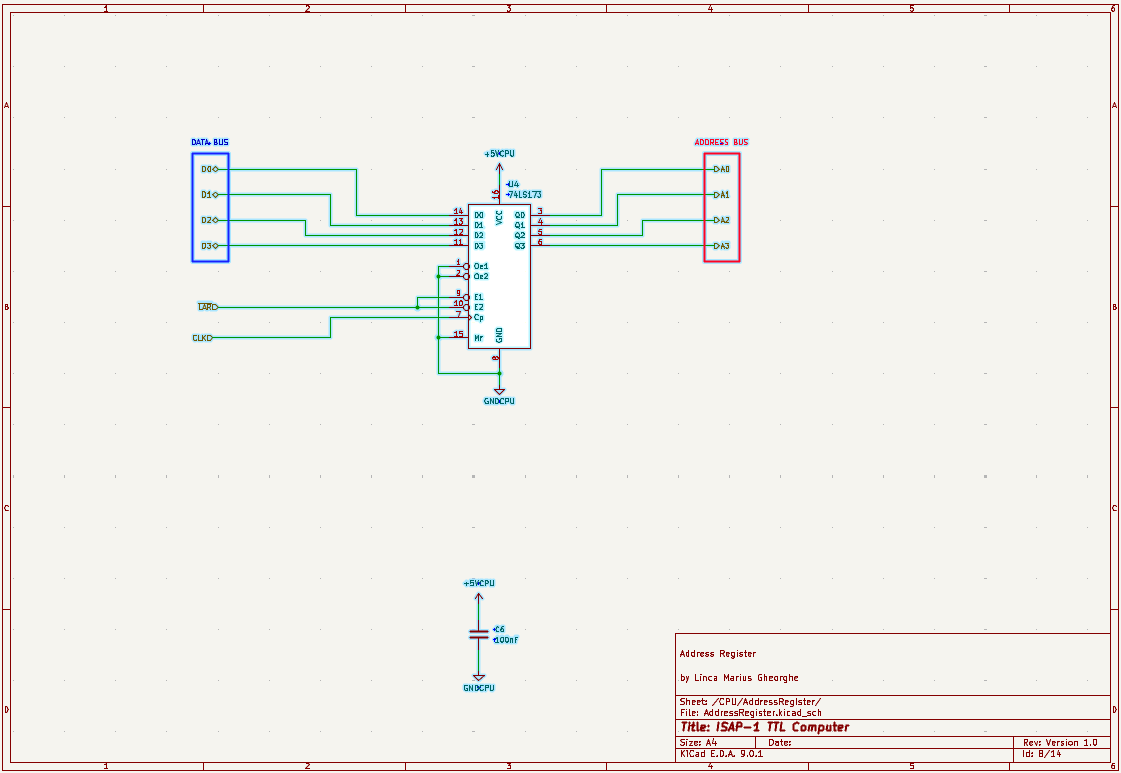
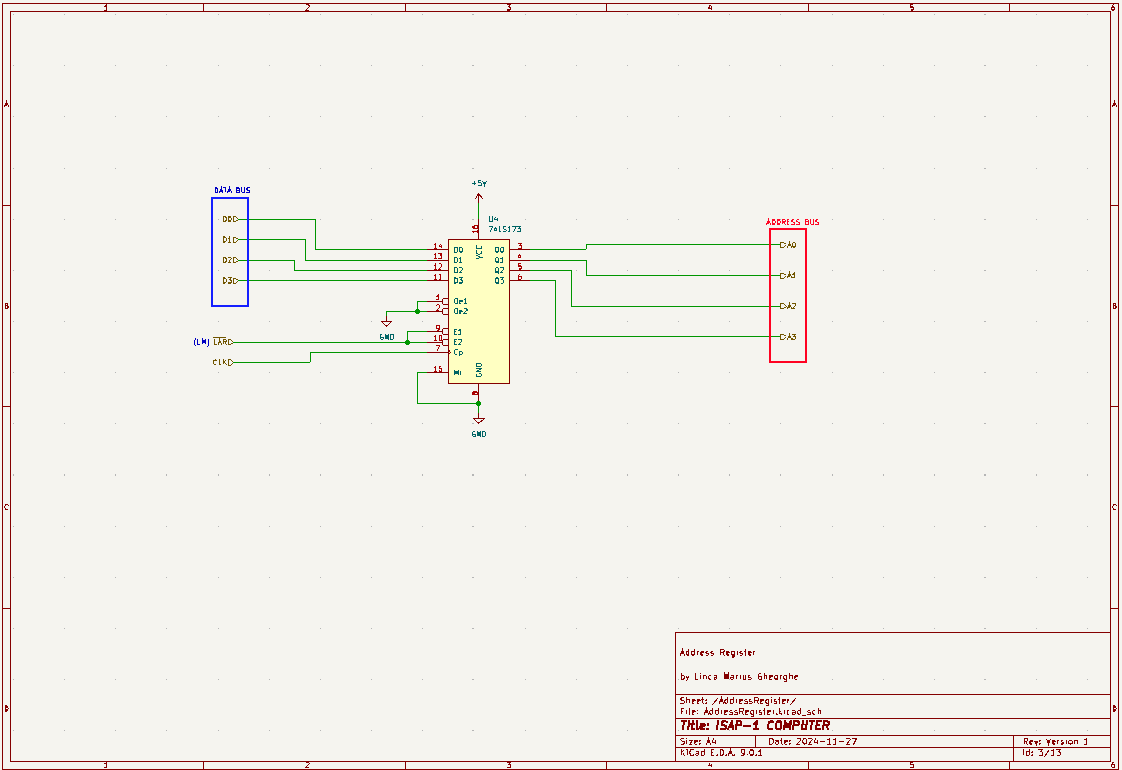
modified:   Pictures/Figure6.png

diff --git a/README.md b/README.md
@@ -82,13 +82,11 @@ Note that the connection of the inputs to the data bus is in reverse order in th
 
 The outputs are also connected in the reverse order. The operation of the SAP-1 computer is not affected by this order because the correspondence between inputs and outputs is maintained.
 
-I modified the pin connections to the bus according to the catalog data for the 74LS173.
+I modified the pin connection to the bus according to the assignment in the 74LS173 chip datasheet.
 
 Because the correspondence between inputs and outputs is maintained in both implementations, the operation of the computer is not influenced.
 
-I added a decoupling capacitor with a value of 100nF.
-
-The schematic has no other changes from the original schematic.
+The current schematic has no other changes compared to the original schematic.
 
 ![ Figure 6 ](/Pictures/Figure6.png)
 
